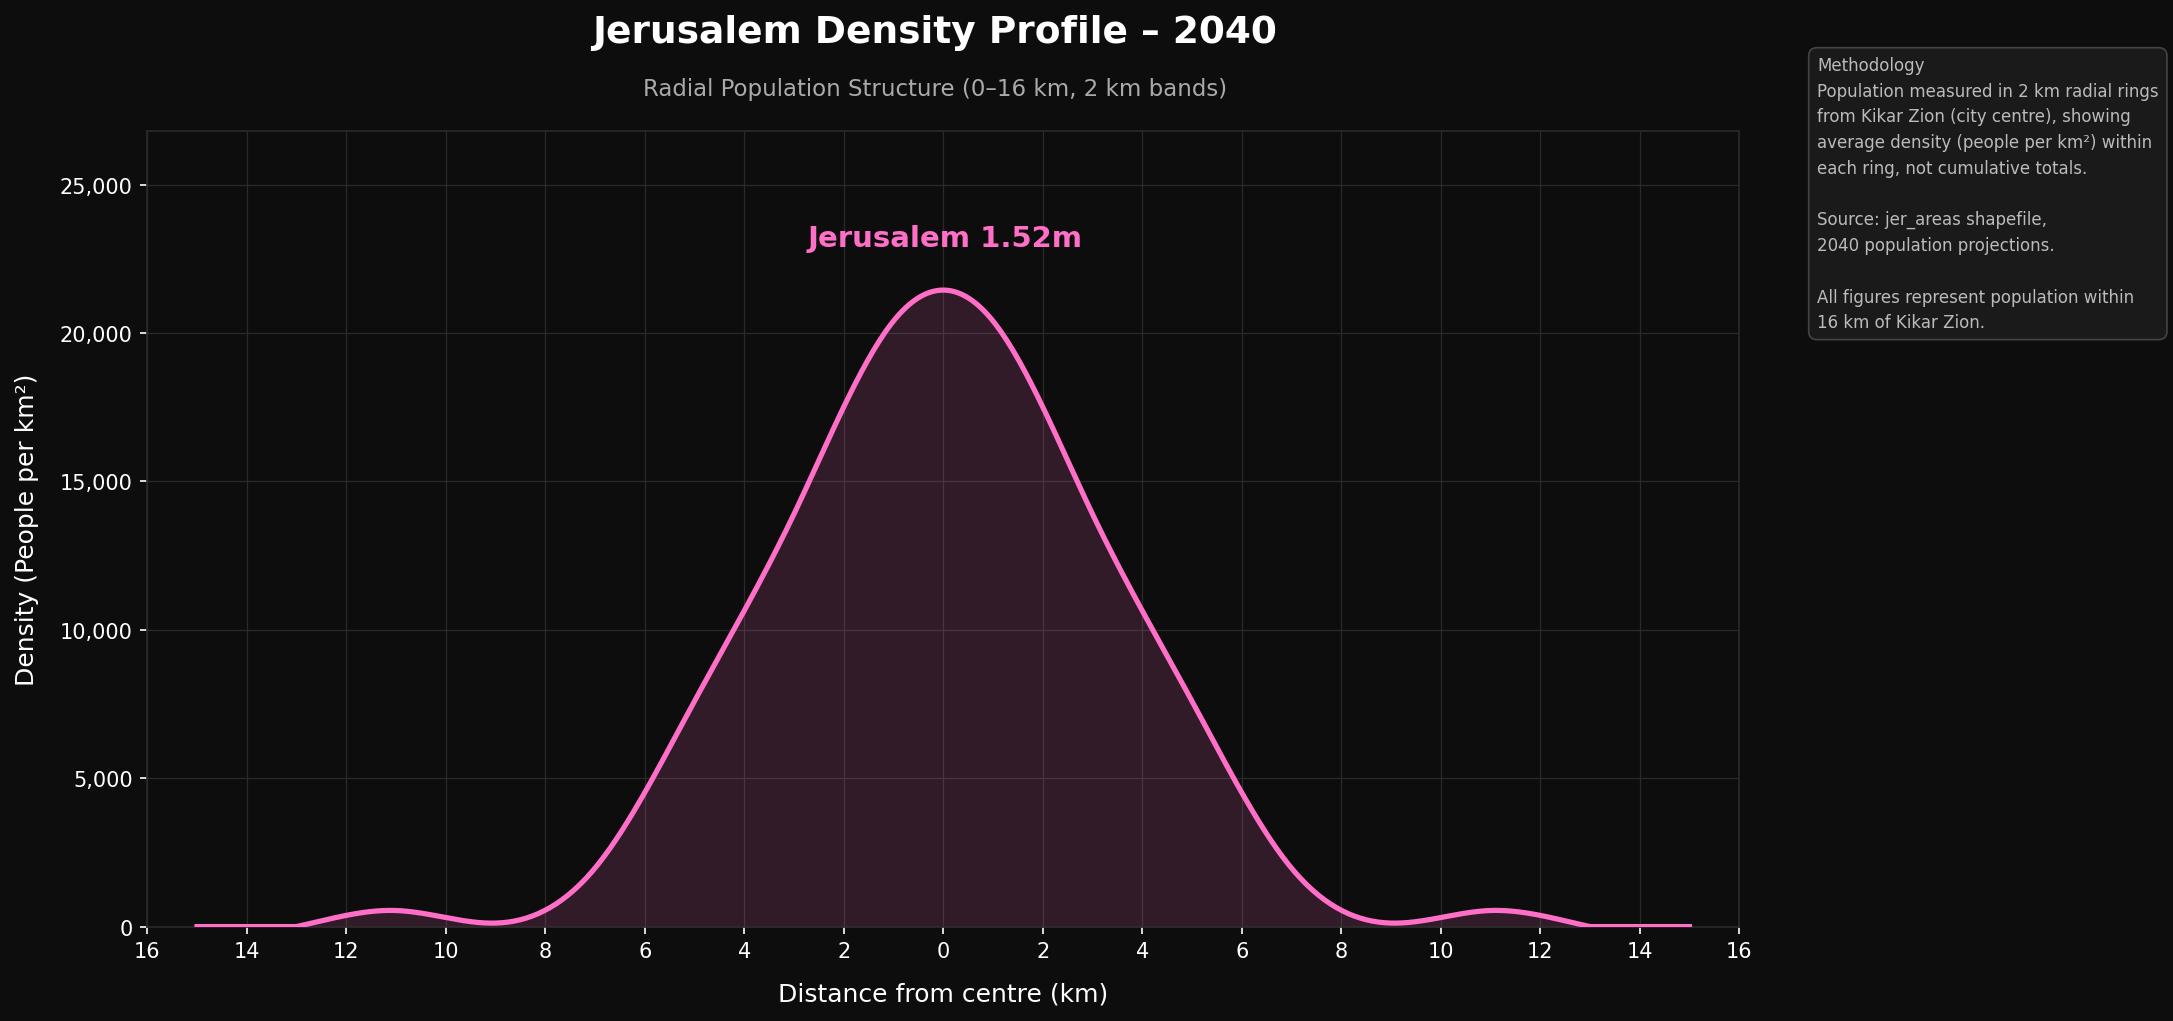
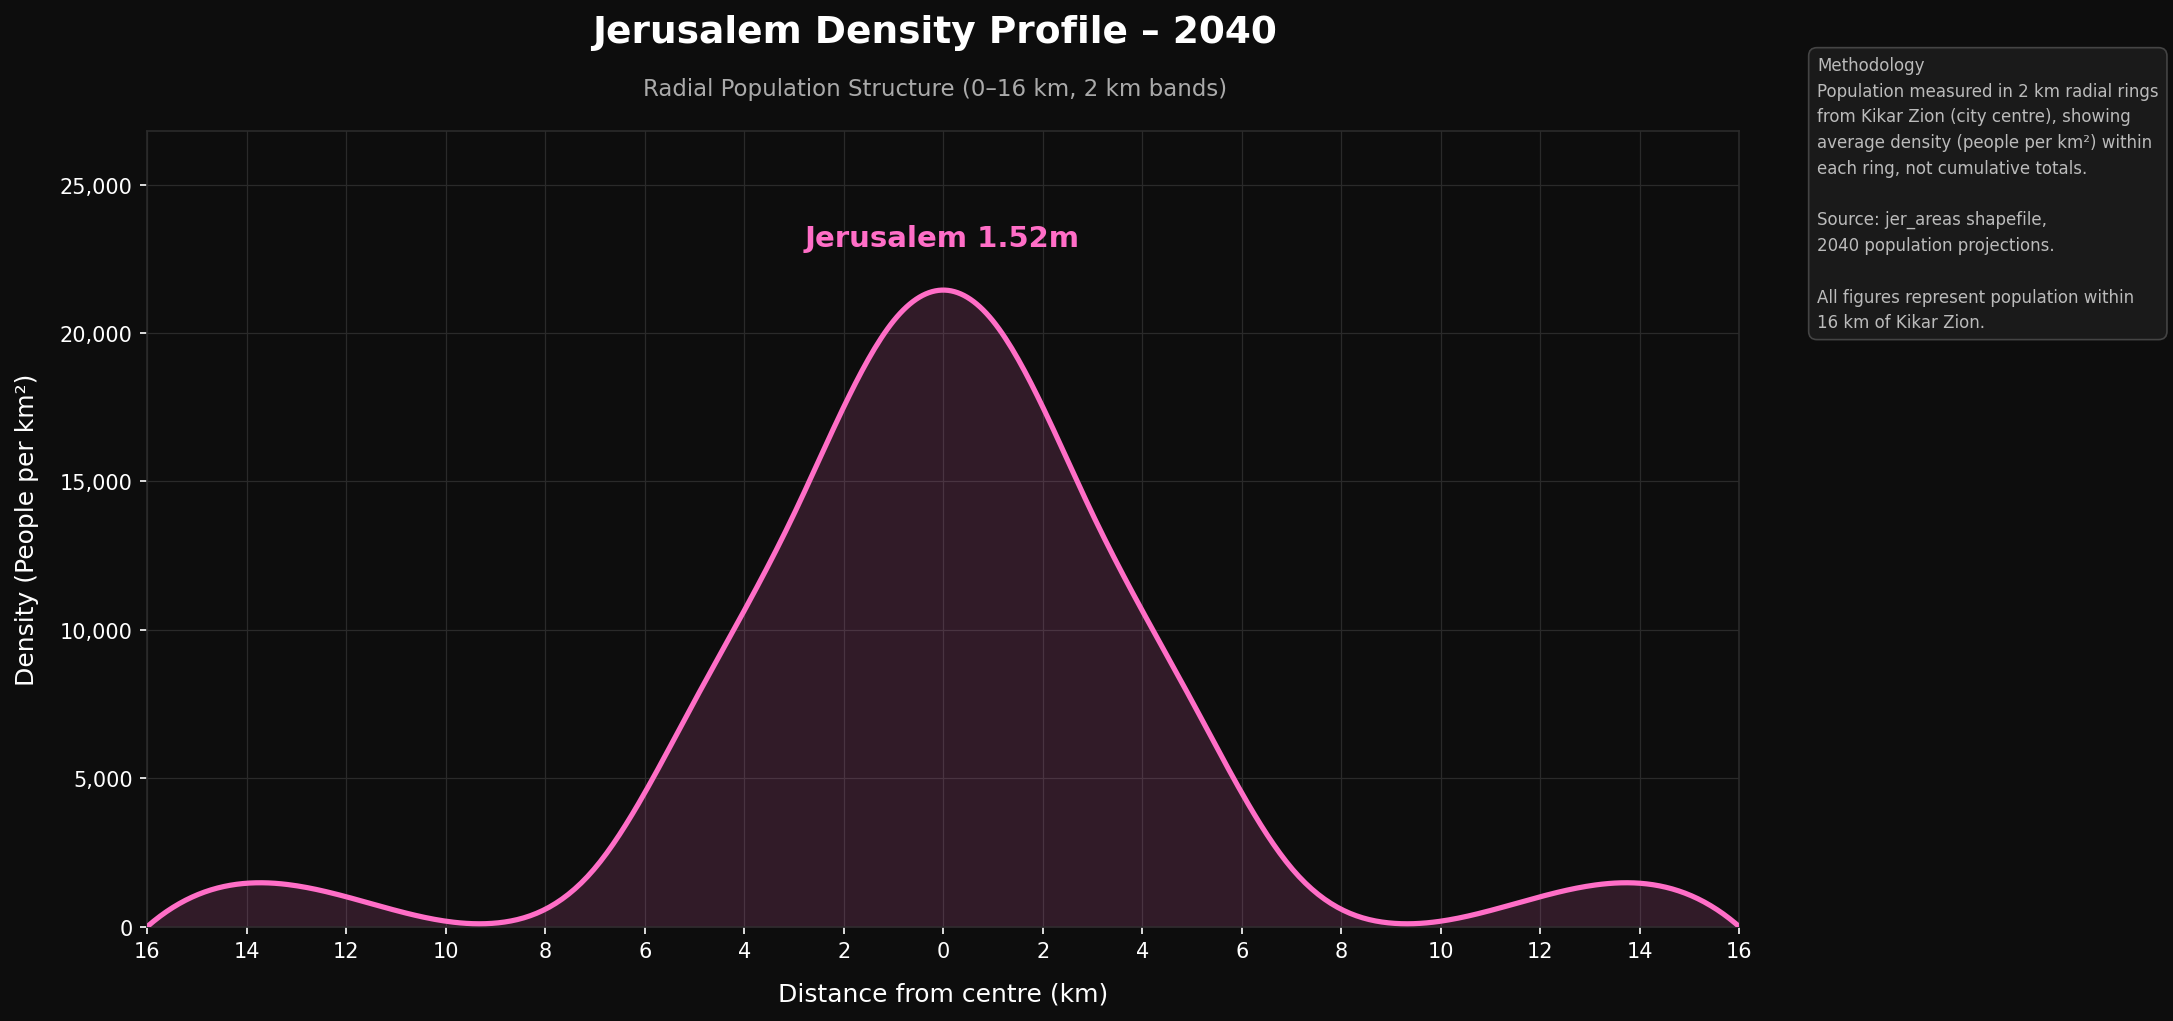
Fix spline tapering: place zero anchor 2 rings beyond last non-zero ring
Previously the zero anchor was placed at the midpoint of the immediately
adjacent ring (2 km away), forcing the spline into a near-vertical drop
for profiles with high values at their outer edge (e.g. Haredi 14k p/km²
at 6-8 km). Now the zero is placed 4 km further out, giving the curve
room to taper smoothly. Asymmetric profiles taper each side independently.

https://claude.ai/code/session_01Wkc3oYCRGuMqTiP78fZipH

Changed region(s): [[0.0617, 0.8501, 0.2467, 0.9109], [0.6475, 0.8501, 0.8017, 0.9109], [0.37, 0.2125, 0.4933, 0.2429]]

diff --git a/population_figure/pop_vs_emp_profile.py b/population_figure/pop_vs_emp_profile.py
@@ -80,43 +80,38 @@ print(f"  Pop densities: {[f'{d:,.0f}' for d in pop_dens]}")
 print(f"  Emp densities: {[f'{d:,.0f}' for d in emp_dens]}")
 print(f"  Pop total: {pop_total:,.0f}   Emp total: {emp_total:,.0f}")
 
-# ── Smooth curves ─────────────────────────────────────────────────────────────
-# Left  (negative x) = population, outward from centre
-# Right (positive x) = employment, outward from centre
-x_left  = -midpoints[::-1]
-x_right =  midpoints
+# ── Smooth curves (each side tapers independently to zero) ───────────────────
+rw = RING_WIDTH / 1000
 
-x = np.concatenate([x_left, x_right])
-y_pop_sym = np.concatenate([pop_dens[::-1], pop_dens])   # full mirror for spline
-y_emp_sym = np.concatenate([emp_dens[::-1], emp_dens])
+def _side_spline(dens, sign, n=250):
+    last_nz = max((i for i, d in enumerate(dens) if d > 0), default=0)
+    zero_x  = min((last_nz + 3) * rw, 16)
+    xs = np.array([(r + 0.5) * rw for r in range(last_nz + 1)] + [zero_x]) * sign
+    ys = np.array(list(dens[:last_nz + 1]) + [0])
+    if sign < 0:
+        xs, ys = xs[::-1], ys[::-1]
+    pts = np.linspace(xs[0], xs[-1], n)
+    return pts, np.clip(make_interp_spline(xs, ys, k=3)(pts), 0, None)
 
-x_s = np.linspace(x[0], x[-1], 500)
-mask_l = x_s <= 0
-mask_r = x_s >= 0
-
-y_pop_s = np.clip(make_interp_spline(x, y_pop_sym, k=3)(x_s), 0, None)
-y_emp_s = np.clip(make_interp_spline(x, y_emp_sym, k=3)(x_s), 0, None)
+x_pop, y_pop_s = _side_spline(pop_dens, sign=-1)
+x_emp, y_emp_s = _side_spline(emp_dens, sign=+1)
 
 # ── Plot ──────────────────────────────────────────────────────────────────────
 fig, ax = plt.subplots(figsize=(14, 7), facecolor=BG_COLOR)
 ax.set_facecolor(BG_COLOR)
 
-ax.plot(x_s[mask_l], y_pop_s[mask_l], color=POP_COLOR, linewidth=2.5, zorder=3)
-ax.fill_between(x_s[mask_l], y_pop_s[mask_l], alpha=0.15, color=POP_COLOR, zorder=2)
+ax.plot(x_pop, y_pop_s, color=POP_COLOR, linewidth=2.5, zorder=3)
+ax.fill_between(x_pop, y_pop_s, alpha=0.15, color=POP_COLOR, zorder=2)
 
-ax.plot(x_s[mask_r], y_emp_s[mask_r], color=EMP_COLOR, linewidth=2.5, zorder=3)
-ax.fill_between(x_s[mask_r], y_emp_s[mask_r], alpha=0.15, color=EMP_COLOR, zorder=2)
+ax.plot(x_emp, y_emp_s, color=EMP_COLOR, linewidth=2.5, zorder=3)
+ax.fill_between(x_emp, y_emp_s, alpha=0.15, color=EMP_COLOR, zorder=2)
 
 ax.axvline(0, color="#555555", linewidth=0.8, linestyle="--", zorder=4)
 
-# Peak labels
-pop_pi = int(np.argmax(y_pop_s[mask_l]))
-emp_pi = int(np.argmax(y_emp_s[mask_r]))
-
-ax.text(x_s[mask_l][pop_pi], y_pop_s[mask_l][pop_pi] * 1.06,
+ax.text(x_pop[int(np.argmax(y_pop_s))], y_pop_s.max() * 1.06,
         f"Population  {pop_total/1e6:.2f}m",
         color=POP_COLOR, fontsize=13, fontweight="bold", ha="center", va="bottom")
-ax.text(x_s[mask_r][emp_pi], y_emp_s[mask_r][emp_pi] * 1.06,
+ax.text(x_emp[int(np.argmax(y_emp_s))], y_emp_s.max() * 1.06,
         f"Employment  {emp_total/1e3:.0f}k",
         color=EMP_COLOR, fontsize=13, fontweight="bold", ha="center", va="bottom")
 
@@ -124,7 +119,7 @@ ax.text(x_s[mask_r][emp_pi], y_emp_s[mask_r][emp_pi] * 1.06,
 ax.grid(color=GRID_COLOR, linewidth=0.6, linestyle="-", zorder=1)
 ax.set_axisbelow(True)
 ax.set_xlim(-16, 16)
-ax.set_ylim(0, max(y_pop_s.max(), y_emp_s.max()) * 1.28)
+ax.set_ylim(0, max(y_pop_s.max(), y_emp_s.max()) * 1.28)  # noqa: already updated vars
 
 x_ticks = list(range(-16, 0, 2)) + list(range(0, 17, 2))
 ax.set_xticks(x_ticks)

diff --git a/population_figure/asymmetric_profile.py b/population_figure/asymmetric_profile.py
@@ -89,47 +89,46 @@ print(f"  Jewish total: {jewish_total:,.0f}   Arab total: {arab_total:,.0f}")
 # ── Build asymmetric x / y ────────────────────────────────────────────────────
 # Left  (negative x) = Jewish, reading outward from centre to left
 # Right (positive x) = Arab,   reading outward from centre to right
-x_left  = -midpoints[::-1]          # -15, -13, …, -1
-x_right =  midpoints                #   1,   3, …,  15
+rw = RING_WIDTH / 1000
 
-y_left  = np.array(jewish_dens[::-1])
-y_right = np.array(arab_dens)
+def _side_spline(dens, sign, n=250):
+    """Build a spline for one side (+1=right, -1=left) with gradual taper to zero."""
+    last_nz = max((i for i, d in enumerate(dens) if d > 0), default=0)
+    zero_x  = min((last_nz + 3) * rw, 16)
+    xs = [(r + 0.5) * rw for r in range(last_nz + 1)] + [zero_x]
+    ys = list(dens[:last_nz + 1]) + [0]
+    xs = np.array(xs) * sign
+    if sign < 0:
+        xs, ys = xs[::-1], ys[::-1]
+    pts = np.linspace(xs[0], xs[-1], n)
+    return pts, np.clip(make_interp_spline(xs, ys, k=3)(pts), 0, None)
 
-x = np.concatenate([x_left, x_right])
-y = np.concatenate([y_left, y_right])
+x_sl, y_sl = _side_spline(jewish_dens, sign=-1)
+x_sr, y_sr = _side_spline(arab_dens,   sign=+1)
 
-x_s = np.linspace(x[0], x[-1], 500)
-y_s = np.clip(make_interp_spline(x, y, k=3)(x_s), 0, None)
-
-# Separate smooth halves for individual fills
-mask_left  = x_s <= 0
-mask_right = x_s >= 0
+mask_left  = x_sl <= 0
+mask_right = x_sr >= 0
 
 # ── Plot ──────────────────────────────────────────────────────────────────────
 fig, ax = plt.subplots(figsize=(14, 7), facecolor=BG_COLOR)
 ax.set_facecolor(BG_COLOR)
 
 # Left (Jewish) – cyan
-ax.plot(x_s[mask_left],  y_s[mask_left],  color=JEWISH_COLOR, linewidth=2.5, zorder=3)
-ax.fill_between(x_s[mask_left], y_s[mask_left], alpha=0.15, color=JEWISH_COLOR, zorder=2)
+ax.plot(x_sl, y_sl, color=JEWISH_COLOR, linewidth=2.5, zorder=3)
+ax.fill_between(x_sl, y_sl, alpha=0.15, color=JEWISH_COLOR, zorder=2)
 
 # Right (Arab) – orange
-ax.plot(x_s[mask_right], y_s[mask_right], color=ARAB_COLOR,   linewidth=2.5, zorder=3)
-ax.fill_between(x_s[mask_right], y_s[mask_right], alpha=0.15, color=ARAB_COLOR, zorder=2)
+ax.plot(x_sr, y_sr, color=ARAB_COLOR, linewidth=2.5, zorder=3)
+ax.fill_between(x_sr, y_sr, alpha=0.15, color=ARAB_COLOR, zorder=2)
 
 # Centre divider
 ax.axvline(0, color="#555555", linewidth=0.8, linestyle="--", zorder=4)
 
 # Labels
-jewish_peak_i = int(np.argmax(y_s[mask_left]))
-arab_peak_i   = int(np.argmax(y_s[mask_right]))
-x_lp = x_s[mask_left][jewish_peak_i]
-x_rp = x_s[mask_right][arab_peak_i]
-
-ax.text(x_lp, y_s[mask_left][jewish_peak_i]  * 1.06,
+ax.text(x_sl[int(np.argmax(y_sl))], y_sl.max() * 1.06,
         f"Jewish  {jewish_total/1e6:.2f}m",
         color=JEWISH_COLOR, fontsize=13, fontweight="bold", ha="center", va="bottom")
-ax.text(x_rp, y_s[mask_right][arab_peak_i] * 1.06,
+ax.text(x_sr[int(np.argmax(y_sr))], y_sr.max() * 1.06,
         f"Arab  {arab_total/1e6:.2f}m",
         color=ARAB_COLOR, fontsize=13, fontweight="bold", ha="center", va="bottom")
 
@@ -143,7 +142,7 @@ ax.text( 14, ax.get_ylim()[1] * 0.02 if ax.get_ylim()[1] > 0 else 200,
 ax.grid(color=GRID_COLOR, linewidth=0.6, linestyle="-", zorder=1)
 ax.set_axisbelow(True)
 ax.set_xlim(-16, 16)
-ax.set_ylim(0, y_s.max() * 1.28)
+ax.set_ylim(0, max(y_sl.max(), y_sr.max()) * 1.28)
 
 x_ticks = list(range(-16, 0, 2)) + list(range(0, 17, 2))
 ax.set_xticks(x_ticks)

diff --git a/population_figure/haredi_vs_jewish_profile.py b/population_figure/haredi_vs_jewish_profile.py
@@ -80,43 +80,45 @@ print(f"\n  Haredi densities:  {[f'{d:,.0f}' for d in haredi_dens]}")
 print(f"  Jewish densities:  {[f'{d:,.0f}' for d in jewish_dens]}")
 print(f"  Haredi total: {haredi_total:,.0f}   Jewish total: {jewish_total:,.0f}")
 
-# ── Smooth asymmetric curves ──────────────────────────────────────────────────
-x_left  = -midpoints[::-1]
-x_right =  midpoints
-x       = np.concatenate([x_left, x_right])
-x_s     = np.linspace(x[0], x[-1], 500)
-mask_l  = x_s <= 0
-mask_r  = x_s >= 0
+# ── Asymmetric curves – each side tapers independently ───────────────────────
+rw = RING_WIDTH / 1000
 
-y_h = np.clip(make_interp_spline(x, np.concatenate([haredi_dens[::-1], haredi_dens]), k=3)(x_s), 0, None)
-y_j = np.clip(make_interp_spline(x, np.concatenate([jewish_dens[::-1], jewish_dens]), k=3)(x_s), 0, None)
+def _side_spline(dens, sign, n=250):
+    last_nz = max((i for i, d in enumerate(dens) if d > 0), default=0)
+    zero_x  = min((last_nz + 3) * rw, 16)
+    xs = np.array([(r + 0.5) * rw for r in range(last_nz + 1)] + [zero_x]) * sign
+    ys = np.array(list(dens[:last_nz + 1]) + [0])
+    if sign < 0:
+        xs, ys = xs[::-1], ys[::-1]
+    pts = np.linspace(xs[0], xs[-1], n)
+    return pts, np.clip(make_interp_spline(xs, ys, k=3)(pts), 0, None)
+
+xh, yh = _side_spline(haredi_dens, sign=-1)
+xj, yj = _side_spline(jewish_dens, sign=+1)
 
 # ── Plot ──────────────────────────────────────────────────────────────────────
 fig, ax = plt.subplots(figsize=(14, 7), facecolor=BG_COLOR)
 ax.set_facecolor(BG_COLOR)
 
-ax.plot(x_s[mask_l], y_h[mask_l], color=HAREDI_COLOR, linewidth=2.5, zorder=3)
-ax.fill_between(x_s[mask_l], y_h[mask_l], alpha=0.15, color=HAREDI_COLOR, zorder=2)
+ax.plot(xh, yh, color=HAREDI_COLOR, linewidth=2.5, zorder=3)
+ax.fill_between(xh, yh, alpha=0.15, color=HAREDI_COLOR, zorder=2)
 
-ax.plot(x_s[mask_r], y_j[mask_r], color=JEWISH_COLOR, linewidth=2.5, zorder=3)
-ax.fill_between(x_s[mask_r], y_j[mask_r], alpha=0.15, color=JEWISH_COLOR, zorder=2)
+ax.plot(xj, yj, color=JEWISH_COLOR, linewidth=2.5, zorder=3)
+ax.fill_between(xj, yj, alpha=0.15, color=JEWISH_COLOR, zorder=2)
 
 ax.axvline(0, color="#555555", linewidth=0.8, linestyle="--", zorder=4)
 
-# Peak labels
-h_pi = int(np.argmax(y_h[mask_l]))
-j_pi = int(np.argmax(y_j[mask_r]))
-ax.text(x_s[mask_l][h_pi], y_h[mask_l][h_pi] * 1.06,
+ax.text(xh[int(np.argmax(yh))], yh.max() * 1.06,
         f"Haredi  {haredi_total/1e3:.0f}k",
         color=HAREDI_COLOR, fontsize=13, fontweight="bold", ha="center", va="bottom")
-ax.text(x_s[mask_r][j_pi], y_j[mask_r][j_pi] * 1.06,
+ax.text(xj[int(np.argmax(yj))], yj.max() * 1.06,
         f"Non-Haredi Jewish  {jewish_total/1e3:.0f}k",
         color=JEWISH_COLOR, fontsize=13, fontweight="bold", ha="center", va="bottom")
 
 ax.grid(color=GRID_COLOR, linewidth=0.6, linestyle="-", zorder=1)
 ax.set_axisbelow(True)
 ax.set_xlim(-16, 16)
-ax.set_ylim(0, max(y_h.max(), y_j.max()) * 1.28)
+ax.set_ylim(0, max(yh.max(), yj.max()) * 1.28)
 
 x_ticks = list(range(-16, 0, 2)) + list(range(0, 17, 2))
 ax.set_xticks(x_ticks)

diff --git a/population_figure/density_profile.py b/population_figure/density_profile.py
@@ -90,8 +90,13 @@ def make_figure(year):
     pop_label = f"{total_pop / 1e6:.2f}m"
     print(f"  Total within 16 km: {total_pop:,.0f}  → {pop_label}")
 
-    x = np.concatenate([-MIDPOINTS[::-1], MIDPOINTS])
-    y = np.concatenate([ring_densities[::-1], ring_densities])
+    rw = RING_WIDTH / 1000
+    last_nz = max((i for i, d in enumerate(ring_densities) if d > 0), default=0)
+    zero_x  = min((last_nz + 3) * rw, 16)   # 2 rings of taper beyond last non-zero
+    x_r = [(r + 0.5) * rw for r in range(last_nz + 1)] + [zero_x]
+    y_r = list(ring_densities[:last_nz + 1]) + [0]
+    x   = np.array([-v for v in reversed(x_r)] + x_r)
+    y   = np.array(list(reversed(y_r)) + y_r)
 
     x_smooth = np.linspace(x[0], x[-1], 500)
     y_smooth  = np.clip(make_interp_spline(x, y, k=3)(x_smooth), 0, None)

diff --git a/population_figure/combined_profile.py b/population_figure/combined_profile.py
@@ -81,8 +81,13 @@ for cfg in YEARS:
     total_pop = (inter_frac_16 * pop).fillna(0).sum()
     pop_label = f"{total_pop / 1e6:.2f}m"
 
-    x = np.concatenate([-midpoints[::-1], midpoints])
-    y = np.concatenate([densities[::-1], densities])
+    rw = RING_WIDTH / 1000
+    last_nz = max((i for i, d in enumerate(densities) if d > 0), default=0)
+    zero_x  = min((last_nz + 3) * rw, 16)
+    x_r = [(r + 0.5) * rw for r in range(last_nz + 1)] + [zero_x]
+    y_r = list(densities[:last_nz + 1]) + [0]
+    x   = np.array([-v for v in reversed(x_r)] + x_r)
+    y   = np.array(list(reversed(y_r)) + y_r)
 
     x_s = np.linspace(x[0], x[-1], 500)
     y_s = np.clip(make_interp_spline(x, y, k=3)(x_s), 0, None)

diff --git a/population_figure/combined_profile_jewish.py b/population_figure/combined_profile_jewish.py
@@ -99,8 +99,13 @@ for cfg in YEARS:
     total_pop = (inter_frac_16 * pop).fillna(0).sum()
     pop_label = f"{total_pop / 1e6:.2f}m"
 
-    x = np.concatenate([-midpoints[::-1], midpoints])
-    y = np.concatenate([densities[::-1], densities])
+    rw = RING_WIDTH / 1000
+    last_nz = max((i for i, d in enumerate(densities) if d > 0), default=0)
+    zero_x  = min((last_nz + 3) * rw, 16)
+    x_r = [(r + 0.5) * rw for r in range(last_nz + 1)] + [zero_x]
+    y_r = list(densities[:last_nz + 1]) + [0]
+    x   = np.array([-v for v in reversed(x_r)] + x_r)
+    y   = np.array(list(reversed(y_r)) + y_r)
 
     x_s = np.linspace(x[0], x[-1], 500)
     y_s = np.clip(make_interp_spline(x, y, k=3)(x_s), 0, None)
